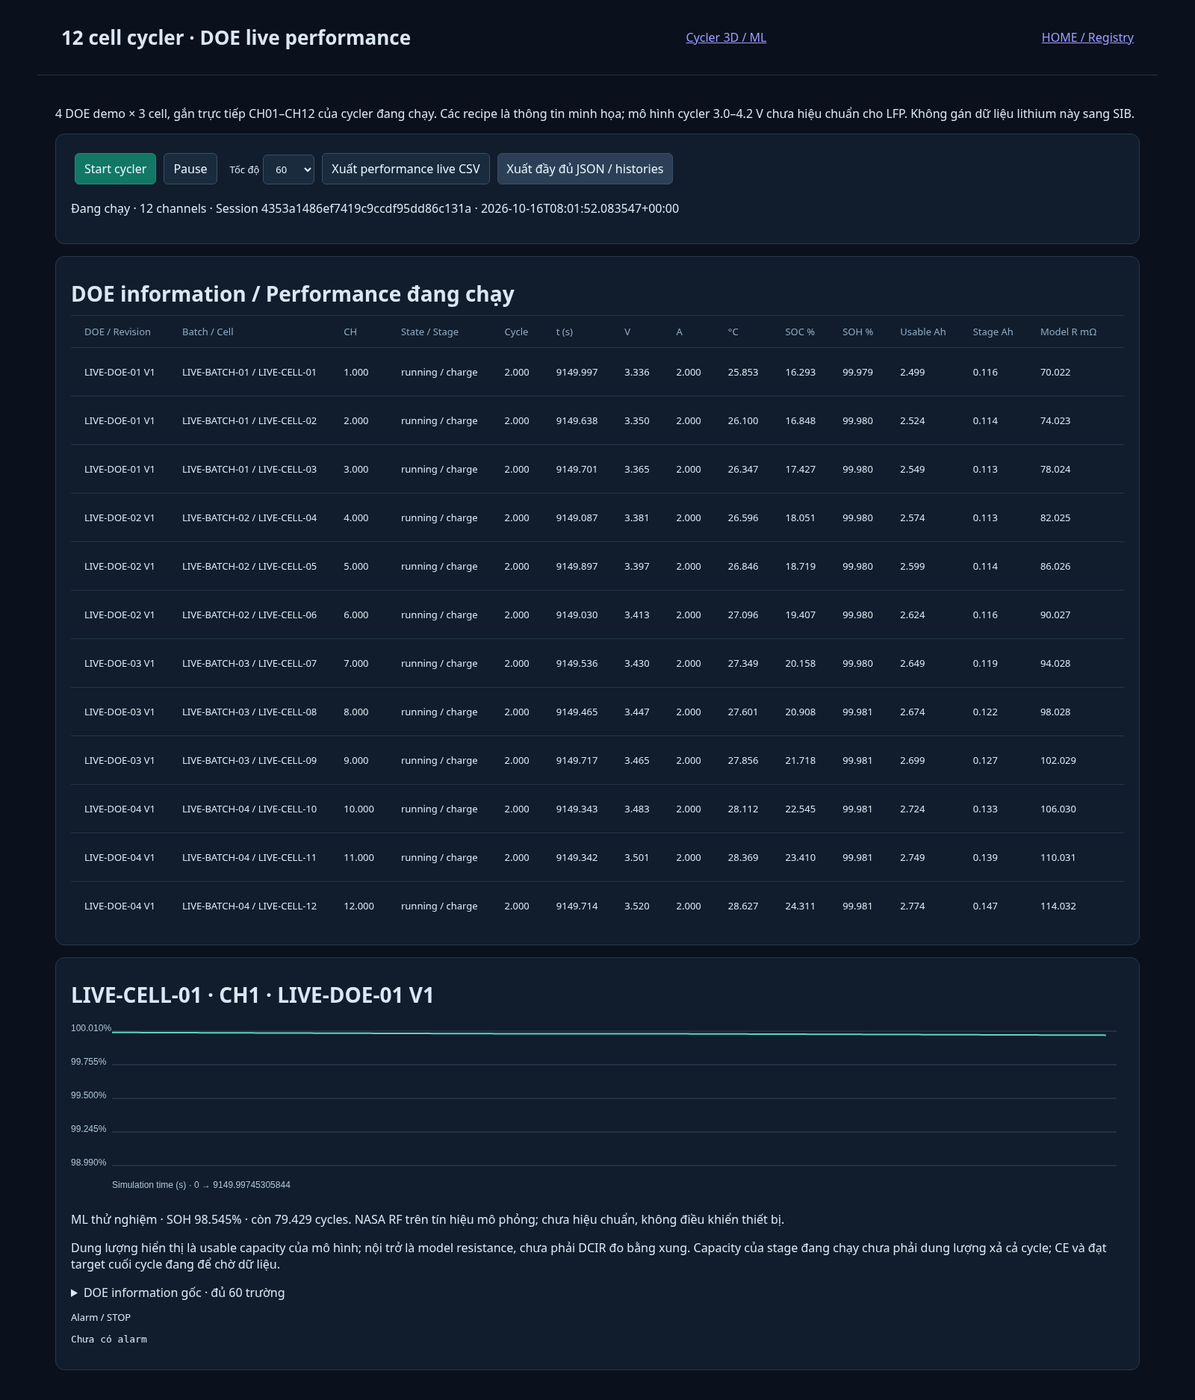
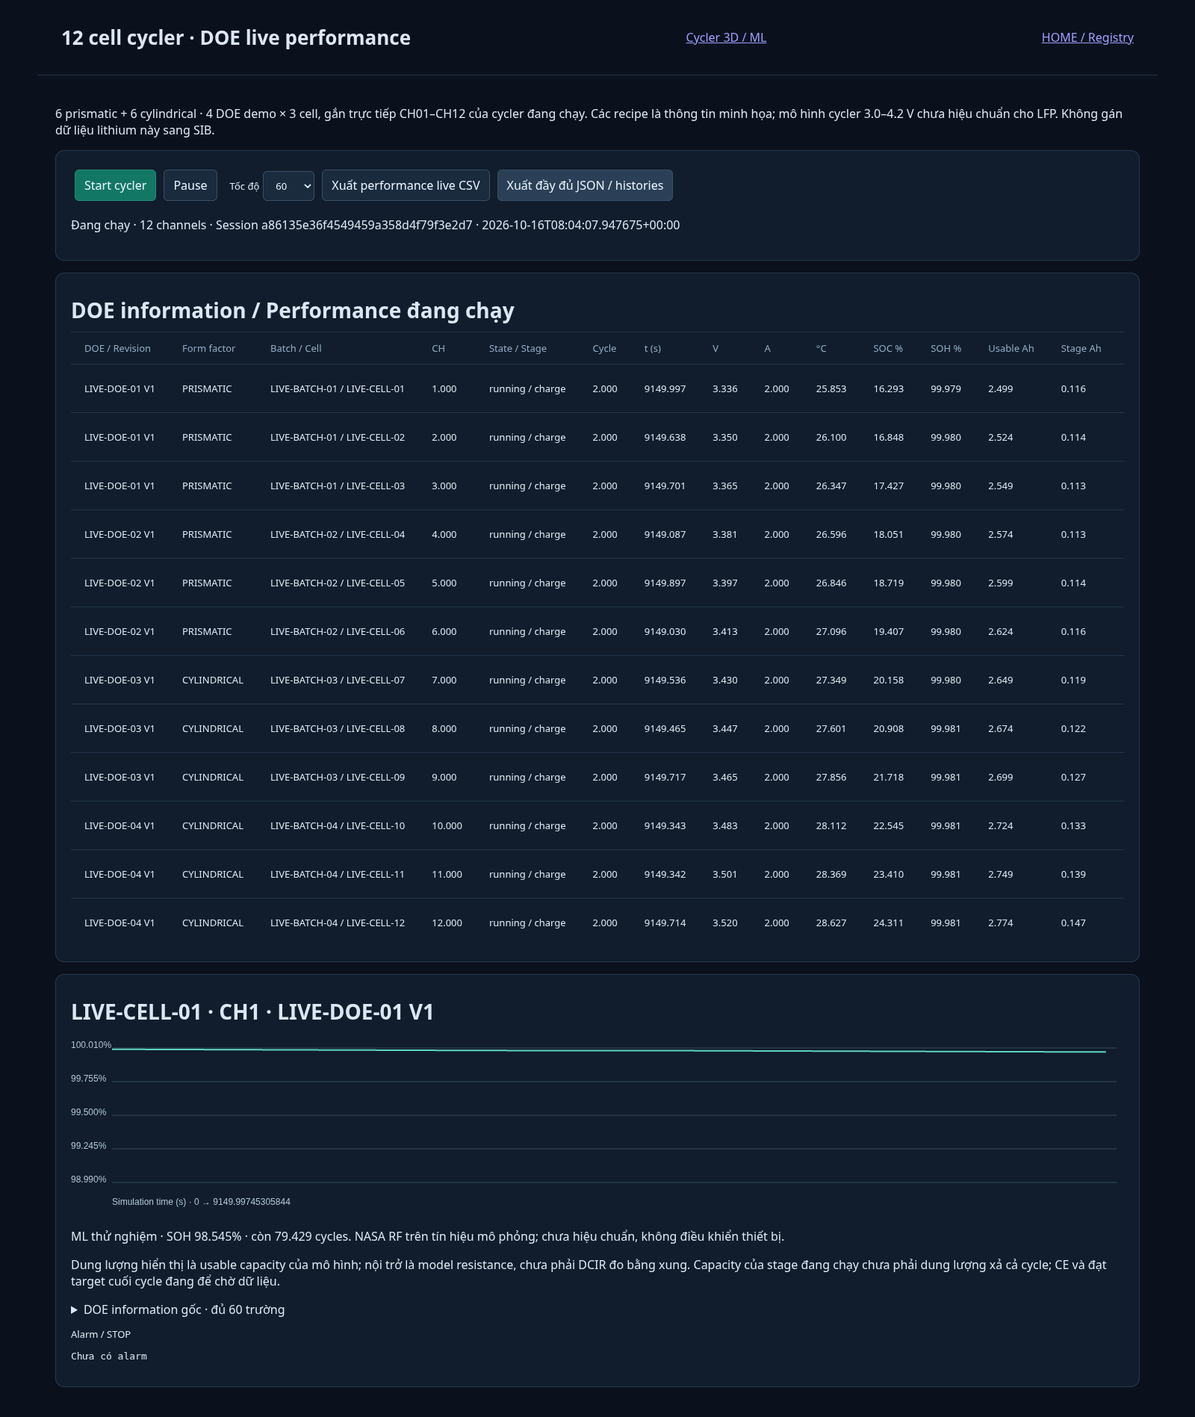
Display six prismatic and six cylindrical cells in the live 3D cycler

diff --git a/web/live-doe.js b/web/live-doe.js
@@ -3,8 +3,8 @@ const fmt=v=>typeof v==='number'?v.toFixed(3):v??'—';
 async function control(data){const r=await fetch('/api/control',{method:'POST',headers:{'Content-Type':'application/json'},body:JSON.stringify(data)});const d=await r.json();if(!r.ok)throw Error(d.error);await refresh();}
 function fail(e){$('error').textContent=e.message;}
 async function refresh(){if(busy)return;busy=true;try{const r=await fetch('/api/live-report');if(!r.ok)throw Error('Live report HTTP '+r.status);snapshot=await r.json();render();$('error').textContent='';}catch(e){fail(e);}finally{busy=false;}}
-function render(){const d=snapshot;$('status').textContent=`${d.running?'Đang chạy':'Đang dừng / paused'} · ${d.tests.length} channels · Session ${d.session_id} · ${d.exported_at}${d.safety_stop?' · SAFETY STOP (Reset tại cycler 3D)':''}`;const table=node('table'),head=node('tr');for(const h of ['DOE / Revision','Batch / Cell','CH','State / Stage','Cycle','t (s)','V','A','°C','SOC %','SOH %','Usable Ah','Stage Ah','Model R mΩ','ML RUL','Xem'])head.append(node('th',h));const thead=node('thead');thead.append(head);table.append(thead);const body=node('tbody');for(const t of d.tests){const c=t.telemetry,tr=node('tr');for(const v of [t.doe_id+' V'+t.revision,t.batch_id+' / '+t.cell_id,t.channel,t.run_state+' / '+c.stage,c.cycle,c.time_s,c.voltage_v,c.current_a,c.temperature_c,100*c.soc,c.soh_percent,c.capacity_ah,c.stage_capacity_ah,c.resistance_mohm,c.live_ml.remaining_cycles])tr.append(node('td',fmt(v)));const td=node('td'),b=node('button','SOH / DOE');b.onclick=()=>{selected=t.channel;draw();};td.append(b);tr.append(td);body.append(tr);}table.append(body);$('table').replaceChildren(table);$('alarms').textContent=d.alarms.length?JSON.stringify(d.alarms,null,2):'Chưa có alarm';draw();}
+function render(){const d=snapshot;$('status').textContent=`${d.running?'Đang chạy':'Đang dừng / paused'} · ${d.tests.length} channels · Session ${d.session_id} · ${d.exported_at}${d.safety_stop?' · SAFETY STOP (Reset tại cycler 3D)':''}`;const table=node('table'),head=node('tr');for(const h of ['DOE / Revision','Form factor','Batch / Cell','CH','State / Stage','Cycle','t (s)','V','A','°C','SOC %','SOH %','Usable Ah','Stage Ah','Model R mΩ','ML RUL','Xem'])head.append(node('th',h));const thead=node('thead');thead.append(head);table.append(thead);const body=node('tbody');for(const t of d.tests){const c=t.telemetry,tr=node('tr');for(const v of [t.doe_id+' V'+t.revision,t.form_factor,t.batch_id+' / '+t.cell_id,t.channel,t.run_state+' / '+c.stage,c.cycle,c.time_s,c.voltage_v,c.current_a,c.temperature_c,100*c.soc,c.soh_percent,c.capacity_ah,c.stage_capacity_ah,c.resistance_mohm,c.live_ml.remaining_cycles])tr.append(node('td',fmt(v)));const td=node('td'),b=node('button','SOH / DOE');b.onclick=()=>{selected=t.channel;draw();};td.append(b);tr.append(td);body.append(tr);}table.append(body);$('table').replaceChildren(table);$('alarms').textContent=d.alarms.length?JSON.stringify(d.alarms,null,2):'Chưa có alarm';draw();}
 function draw(){if(!snapshot)return;const t=snapshot.tests.find(t=>t.channel===selected),c=t.telemetry,d=snapshot.does.find(d=>d.id===t.doe_id);$('selected').textContent=`${t.cell_id} · CH${selected} · ${t.doe_id} V${t.revision}`;$('bom').textContent=JSON.stringify(d,null,2);$('ml').textContent=c.live_ml.remaining_cycles===null?'ML: '+c.live_ml.reason:`ML thử nghiệm · SOH ${fmt(c.live_ml.soh_percent)}% · còn ${fmt(c.live_ml.remaining_cycles)} cycles. NASA RF trên tín hiệu mô phỏng; chưa hiệu chuẩn, không điều khiển thiết bị.`;const canvas=$('chart'),ctx=canvas.getContext('2d'),w=canvas.clientWidth;canvas.width=w*devicePixelRatio;canvas.height=240*devicePixelRatio;ctx.scale(devicePixelRatio,devicePixelRatio);const pts=c.live_soh_history,min=Math.min(99,...pts.map(p=>p.simulated_soh_percent))-.01,max=100.01,end=Math.max(1,c.time_s),x=t=>55+(w-75)*t/end,y=v=>200-(v-min)/(max-min)*180;ctx.font='12px sans-serif';ctx.fillStyle='#aec4d5';ctx.strokeStyle='#34495b';for(let i=0;i<=4;i++){const v=min+(max-min)*i/4;ctx.fillText(v.toFixed(3)+'%',0,y(v));ctx.beginPath();ctx.moveTo(55,y(v));ctx.lineTo(w-10,y(v));ctx.stroke();}ctx.fillText('Simulation time (s) · 0 → '+end,55,230);ctx.strokeStyle='#5dd5bf';ctx.lineWidth=2;ctx.beginPath();pts.forEach((p,i)=>ctx[i?'lineTo':'moveTo'](x(p.time_s),y(p.simulated_soh_percent)));ctx.stroke();if(pts.length===1){ctx.beginPath();ctx.arc(x(pts[0].time_s),y(pts[0].simulated_soh_percent),3,0,7);ctx.fill();}}
 function download(name,s,type){const u=URL.createObjectURL(new Blob([s],{type})),a=node('a');a.href=u;a.download=name;a.click();setTimeout(()=>URL.revokeObjectURL(u),1000);}
-$('csv').onclick=()=>{if(!snapshot)return;const state=snapshot,keys=Object.entries(state.does[0].bom).flatMap(([g,fs])=>Object.keys(fs).map(k=>[g,k]));const rows=state.tests.map(t=>{const c=t.telemetry,d=state.does.find(d=>d.id===t.doe_id);return {exported_at:state.exported_at,source:t.source,session_id:t.session_id,project_id:t.project_id,doe_id:t.doe_id,revision:t.revision,owner:d.owner,objective:d.objective,batch_id:t.batch_id,cell_id:t.cell_id,test_id:t.test_id,equipment:t.equipment,channel:t.channel,protocol:t.protocol,run_state:t.run_state,stage:c.stage,cycle:c.cycle,time_s:c.time_s,voltage_v:c.voltage_v,current_a:c.current_a,temperature_c:c.temperature_c,soc_percent:100*c.soc,soh_percent:c.soh_percent,model_usable_capacity_ah:c.capacity_ah,stage_capacity_ah:c.stage_capacity_ah,model_resistance_mohm:c.resistance_mohm,efc:c.efc,target_state:t.target_state,ce_percent:null,ml_status:c.live_ml.status,ml_soh_percent:c.live_ml.soh_percent,ml_remaining_cycles:c.live_ml.remaining_cycles,ml_feature_cycle:c.live_ml.feature_cycle,ml_updated_time_s:c.live_ml.updated_time_s,ml_experimental:true,valid_for_hardware:false,error:c.error,alarms_json:JSON.stringify(state.alarms.filter(a=>a.cell===t.channel)),...Object.fromEntries(keys.map(([g,k])=>['reference_bom.'+g+'.'+k,d.bom[g][k]]))};});const quote=v=>{let s=String(v??'');if(typeof v==='string'&&/^[=+@\-\t\r]/.test(s))s="'"+s;return '"'+s.replaceAll('"','""')+'"';};const h=Object.keys(rows[0]);download('live-12-channel-performance.csv','\uFEFF'+h.join(',')+'\r\n'+rows.map(r=>h.map(k=>quote(r[k])).join(',')).join('\r\n'),'text/csv;charset=utf-8');};
+$('csv').onclick=()=>{if(!snapshot)return;const state=snapshot,keys=Object.entries(state.does[0].bom).flatMap(([g,fs])=>Object.keys(fs).map(k=>[g,k]));const rows=state.tests.map(t=>{const c=t.telemetry,d=state.does.find(d=>d.id===t.doe_id);return {exported_at:state.exported_at,source:t.source,session_id:t.session_id,project_id:t.project_id,form_factor:t.form_factor,doe_id:t.doe_id,revision:t.revision,owner:d.owner,objective:d.objective,batch_id:t.batch_id,cell_id:t.cell_id,test_id:t.test_id,equipment:t.equipment,channel:t.channel,protocol:t.protocol,run_state:t.run_state,stage:c.stage,cycle:c.cycle,time_s:c.time_s,voltage_v:c.voltage_v,current_a:c.current_a,temperature_c:c.temperature_c,soc_percent:100*c.soc,soh_percent:c.soh_percent,model_usable_capacity_ah:c.capacity_ah,stage_capacity_ah:c.stage_capacity_ah,model_resistance_mohm:c.resistance_mohm,efc:c.efc,target_state:t.target_state,ce_percent:null,ml_status:c.live_ml.status,ml_soh_percent:c.live_ml.soh_percent,ml_remaining_cycles:c.live_ml.remaining_cycles,ml_feature_cycle:c.live_ml.feature_cycle,ml_updated_time_s:c.live_ml.updated_time_s,ml_experimental:true,valid_for_hardware:false,error:c.error,alarms_json:JSON.stringify(state.alarms.filter(a=>a.cell===t.channel)),...Object.fromEntries(keys.map(([g,k])=>['reference_bom.'+g+'.'+k,d.bom[g][k]]))};});const quote=v=>{let s=String(v??'');if(typeof v==='string'&&/^[=+@\-\t\r]/.test(s))s="'"+s;return '"'+s.replaceAll('"','""')+'"';};const h=Object.keys(rows[0]);download('live-12-channel-performance.csv','\uFEFF'+h.join(',')+'\r\n'+rows.map(r=>h.map(k=>quote(r[k])).join(',')).join('\r\n'),'text/csv;charset=utf-8');};
 $('json').onclick=()=>{if(snapshot)download('live-12-channel-report.json',JSON.stringify(snapshot,null,2),'application/json');};$('start').onclick=()=>control({action:'start'}).catch(fail);$('pause').onclick=()=>control({action:'pause'}).catch(fail);$('speed').onchange=()=>control({action:'speed',speed:Number($('speed').value)}).catch(fail);window.addEventListener('resize',draw);await refresh();setInterval(refresh,1000);

diff --git a/web/app.js b/web/app.js
@@ -16,7 +16,7 @@ const stages = {ready:'Sẵn sàng',charge:'Sạc',rest_after_charge:'Nghỉ sau
 const statuses = {ready:'Sẵn sàng',running:'Đang chạy',complete:'Hoàn tất',fault:'Dừng lỗi',stopped:'Dừng bảo vệ'};
 let selected=0, state=null, history=Array.from({length:12},()=>[]), lastTime=Array(12).fill(-1);
 const meshes=[], outlines=[];
-for(let i=0;i<12;i++) $('cell-select').add(new Option(`CH ${String(i+1).padStart(2,'0')}`,i));
+for(let i=0;i<12;i++) $('cell-select').add(new Option(`CH ${String(i+1).padStart(2,'0')} · ${i<6?'Prismatic':'Cylindrical'}`,i));
 for(let i=0;i<12;i++) $('fault-cell').add(new Option(`CH ${String(i+1).padStart(2,'0')}`,i+1));
 function selectCell(i){selected=i;$('cell-select').value=i;if(state)updateUI(state);window.dispatchEvent(new CustomEvent('cycler-cell',{detail:i}));}
 $('cell-select').addEventListener('change',e=>selectCell(Number(e.target.value)));
@@ -41,14 +41,18 @@ try {
  for(const y of [0,1.85,3.7,5.6])box(6.7,.13,2.5,0,y,0,'#334b61');
  box(6.6,5.6,.12,0,2.8,-1.15,'#1a2b3d');
  for(let i=0;i<12;i++){
-   const x=(i%4-1.5)*1.55,y=4.55-Math.floor(i/4)*1.85;
-   const cell=new THREE.Mesh(new THREE.CylinderGeometry(.42,.42,1.3,40),new THREE.MeshStandardMaterial({color:thermalColor(25),roughness:.4,metalness:.22}));
-   cell.position.set(x,y,.1);cell.userData.id=i;scene.add(cell);meshes.push(cell);
-   box(.32,.1,.32,x,y+.7,.1,'#b5c5d3');
+   const prismatic=i<6,col=(prismatic?0:2)+i%2,row=Math.floor((i%6)/2);
+   const x=(col-1.5)*1.55,y=4.55-row*1.85;
+   const cell=new THREE.Mesh((prismatic?new THREE.BoxGeometry(.95,1.3,.55):new THREE.CylinderGeometry(.42,.42,1.3,40)),new THREE.MeshStandardMaterial({color:thermalColor(25),roughness:.4,metalness:.22}));
+   cell.position.set(x,y,.1);cell.userData.id=i;cell.userData.formFactor=prismatic?'PRISMATIC':'CYLINDRICAL';scene.add(cell);meshes.push(cell);
+   if(prismatic){
+     box(.2,.12,.22,x-.28,y+.71,.1,'#ed786a');
+     box(.2,.12,.22,x+.28,y+.71,.1,'#b5c5d3');
+   }else box(.32,.1,.32,x,y+.7,.1,'#b5c5d3');
    const edges=new THREE.LineSegments(new THREE.EdgesGeometry(new THREE.BoxGeometry(1,1.65,1)),new THREE.LineBasicMaterial({color:'#e7fffa'}));
    edges.position.copy(cell.position);scene.add(edges);outlines.push(edges);
    const labelCanvas=document.createElement('canvas');labelCanvas.width=256;labelCanvas.height=64;
-   const ctx=labelCanvas.getContext('2d');ctx.fillStyle='#c4dae9';ctx.font='bold 28px sans-serif';ctx.textAlign='center';ctx.fillText(`CH ${String(i+1).padStart(2,'0')}`,128,42);
+   const ctx=labelCanvas.getContext('2d');ctx.fillStyle='#c4dae9';ctx.font='bold 24px sans-serif';ctx.textAlign='center';ctx.fillText(`CH ${String(i+1).padStart(2,'0')} · ${prismatic?'PRISM':'CYL'}`,128,42);
    const sprite=new THREE.Sprite(new THREE.SpriteMaterial({map:new THREE.CanvasTexture(labelCanvas)}));sprite.position.set(x,y-.68,1.35);sprite.scale.set(1.15,.29,1);scene.add(sprite);
  }
  const grid=new THREE.GridHelper(20,20,0x345168,0x192d40);grid.position.y=-.1;scene.add(grid);
@@ -87,7 +91,7 @@ function updateUI(s){
  $('fault-pending').textContent=s.pending_fault?`Đã lên lịch lỗi ${s.pending_fault.kind} cho CH ${s.pending_fault.cell}. Bắt đầu để áp dụng.`:'';
  $('run-status').textContent=s.safety_stop?'STOP · Dừng bảo vệ':s.running?'Đang mô phỏng':s.cells.every(c=>['complete','fault'].includes(c.status))?'Đã kết thúc':'Tạm dừng / Sẵn sàng';
  $('run-status').classList.toggle('error',s.safety_stop);
- $('speed').value=String(s.speed);$('cell-title').textContent=`CH ${String(cell.id).padStart(2,'0')}`;
+ $('speed').value=String(s.speed);$('cell-title').textContent=`CH ${String(cell.id).padStart(2,'0')} · ${cell.form_factor}`;
  $('stage').textContent=`${stages[cell.stage]||cell.stage} · ${cell.mode} · Chu kỳ ${cell.cycle}/3`;
  $('temperature').textContent=`${cell.temperature_c.toFixed(2)} °C`;$('temperature').style.color='#'+thermalColor(cell.temperature_c).getHexString();
  $('voltage').textContent=`${cell.voltage_v.toFixed(3)} V`;$('current').textContent=`${cell.current_a.toFixed(3)} A`;
@@ -106,7 +110,7 @@ function updateUI(s){
    if(c.time_s!==lastTime[i]){history[i].push({...c});if(history[i].length>240)history[i].shift();lastTime[i]=c.time_s;}
    if(meshes[i])meshes[i].material.color.copy(thermalColor(c.temperature_c));
    const tr=document.createElement('tr');tr.classList.toggle('selected',i===selected);tr.tabIndex=0;
-   const texts=[`CH ${String(c.id).padStart(2,'0')}`,statuses[c.status],`${c.cycle}/3`,c.mode,`${c.voltage_v.toFixed(3)} V`,`${c.current_a.toFixed(3)} A`,`${(c.soc*100).toFixed(1)} %`,`${c.temperature_c.toFixed(2)} °C`,`${c.soh_percent.toFixed(3)} %`,c.efc.toFixed(3),c.live_ml.remaining_cycles===null?'Chờ xả':`≈ ${Math.round(c.live_ml.remaining_cycles)}`,c.live_ml.feature_cycle??'—'];
+   const texts=[`CH ${String(c.id).padStart(2,'0')} · ${c.form_factor}`,statuses[c.status],`${c.cycle}/3`,c.mode,`${c.voltage_v.toFixed(3)} V`,`${c.current_a.toFixed(3)} A`,`${(c.soc*100).toFixed(1)} %`,`${c.temperature_c.toFixed(2)} °C`,`${c.soh_percent.toFixed(3)} %`,c.efc.toFixed(3),c.live_ml.remaining_cycles===null?'Chờ xả':`≈ ${Math.round(c.live_ml.remaining_cycles)}`,c.live_ml.feature_cycle??'—'];
    texts.forEach((text,j)=>{const td=document.createElement('td');td.textContent=text;if(j===7){const dot=document.createElement('span');dot.className='dot';dot.style.background='#'+thermalColor(c.temperature_c).getHexString();td.prepend(dot);}tr.append(td);});
    tr.addEventListener('click',()=>selectCell(i));tr.addEventListener('keydown',e=>{if(e.key==='Enter'||e.key===' '){e.preventDefault();selectCell(i);}});$('channels').append(tr);
  }

diff --git a/web/live-doe.html b/web/live-doe.html
@@ -1,5 +1,5 @@
 <!doctype html><html lang="vi"><head><meta charset="utf-8"><meta name="viewport" content="width=device-width,initial-scale=1"><title>12 live channels · DOE performance</title><link rel="stylesheet" href="style.css"><link rel="stylesheet" href="projects.css"><style>main{padding:24px}.panel{padding:20px;margin:16px 0}.table-scroll{overflow:auto}canvas{width:100%;height:240px}pre{white-space:pre-wrap}button,select{margin:5px}#error{color:#ff9393}</style></head><body><header><h1>12 cell cycler · DOE live performance</h1><a href="index.html">Cycler 3D / ML</a><a href="workflow.html">HOME / Registry</a></header><main>
-<p>4 DOE demo × 3 cell, gắn trực tiếp CH01–CH12 của cycler đang chạy. Các recipe là thông tin minh họa; mô hình cycler 3.0–4.2 V chưa hiệu chuẩn cho LFP. Không gán dữ liệu lithium này sang SIB.</p>
+<p>6 prismatic + 6 cylindrical · 4 DOE demo × 3 cell, gắn trực tiếp CH01–CH12 của cycler đang chạy. Các recipe là thông tin minh họa; mô hình cycler 3.0–4.2 V chưa hiệu chuẩn cho LFP. Không gán dữ liệu lithium này sang SIB.</p>
 <section class="panel"><button id="start">Start cycler</button><button id="pause">Pause</button><label>Tốc độ<select id="speed"><option>1</option><option>10</option><option selected>60</option><option>300</option></select></label><button id="csv">Xuất performance live CSV</button><button id="json">Xuất đầy đủ JSON / histories</button><p id="status"></p><p id="error" role="alert"></p></section>
 <section class="panel"><h2>DOE information / Performance đang chạy</h2><div id="table" class="table-scroll"></div></section>
 <section class="panel"><h2 id="selected">SOH theo thời gian</h2><canvas id="chart"></canvas><p id="ml"></p><p>Dung lượng hiển thị là usable capacity của mô hình; nội trở là model resistance, chưa phải DCIR đo bằng xung. Capacity của stage đang chạy chưa phải dung lượng xả cả cycle; CE và đạt target cuối cycle đang để chờ dữ liệu.</p><details><summary>DOE information gốc · đủ 60 trường</summary><pre id="bom"></pre></details><h3>Alarm / STOP</h3><pre id="alarms"></pre></section></main><script type="module" src="live-doe.js"></script></body></html>

diff --git a/web/index.html b/web/index.html
@@ -16,7 +16,7 @@
   </section>
   <section class="panel safety-panel"><h3>Kiểm thử cell bất thường</h3><div class="scenario"><label>Cell<select id="fault-cell" aria-label="Cell kiểm thử lỗi"></select></label><label>Tình huống<select id="fault-kind"><option value="overheat">Quá nhiệt 50 °C</option><option value="overvoltage">Quá áp 4,5 V</option><option value="overcurrent">Quá dòng 8 A</option><option value="capacity_drop">Dung lượng giảm đột ngột</option></select></label><button id="inject-fault">Chèn lỗi mô phỏng</button></div><p class="muted">Lỗi được áp dụng tại bước mô phỏng kế tiếp khi đang chạy. Dừng toàn bộ tủ, dòng về 0; cần Reset để chạy lại. Chỉ áp dụng trong mô phỏng.</p><p id="fault-pending" role="status"></p><div id="safety-alarm" role="alert" hidden></div></section>
   <section class="layout">
-    <div class="panel scene-panel"><div class="section-title">TỦ CYCLER 3D <span>Kéo để xoay · Cuộn để zoom · Chọn cell</span></div><div id="scene"></div>
+    <div class="panel scene-panel"><div class="section-title">TỦ CYCLER 3D · 6 PRISMATIC + 6 CYLINDRICAL <span>Kéo để xoay · Cuộn để zoom · Chọn cell</span></div><div id="scene"></div><p class="muted">Bên trái: CH01–06 Prismatic · Bên phải: CH07–12 Cylindrical. Hình dạng minh họa; chưa có mô hình nhiệt riêng theo form factor.</p>
       <div class="legend"><span>Nhiệt độ cell · °C</span><div class="colorbar"></div><div class="ticks"><span>20</span><span>25</span><span>30</span><span>35</span><span>40</span><span>45</span></div></div>
     </div>
     <aside class="panel details"><div class="section-title">CELL ĐANG CHỌN <select id="cell-select" aria-label="Chọn cell"></select></div>

diff --git a/live_report.py b/live_report.py
@@ -7,15 +7,16 @@ def report(rack):
     # Caller holds rack.lock: telemetry, ML and histories form one consistent snapshot.
     does=[]
     for group in range(4):
-        bom=template('cylindrical-lfp01')
+        pid='prismatic-lfp01' if group<2 else 'cylindrical-lfp01'
+        bom=template(pid)
         bom['cell']['capacity_033_typical']=2.5+.025*(group*3+1)
         bom['cell']['capacity_033_min']=bom['cell']['capacity_033_typical']*.95
-        does.append(dict(id='LIVE-DOE-%02d'%(group+1),revision=1,owner='Demo R&D',
+        does.append(dict(project_id=pid,form_factor='PRISMATIC' if group<2 else 'CYLINDRICAL',id='LIVE-DOE-%02d'%(group+1),revision=1,owner='Demo R&D',
             objective='Monitor three live simulator channels; no causal design effect claimed',bom=bom))
     tests=[]
     for index,c in enumerate(rack.cells):
         d=does[index//3]
-        tests.append(dict(project_id='cylindrical-lfp01',source='live_cycler_simulator',session_id=rack.session_id,
+        tests.append(dict(project_id=c['project_id'],form_factor=c['form_factor'],source='live_cycler_simulator',session_id=rack.session_id,
             doe_id=d['id'],revision=d['revision'],batch_id='LIVE-BATCH-%02d'%(index//3+1),
             cell_id='LIVE-CELL-%02d'%c['id'],test_id=rack.session_id+'-CH%02d'%c['id'],
             equipment='SIM-RACK-01',channel=c['id'],protocol='CC/CV 2A 4.2V → rest → discharge 2A 3.0V; 3 cycles',

diff --git a/server.py b/server.py
@@ -46,7 +46,8 @@ class Rack:
                               temperature_c=25 + 0.2 * i, ambient_c=25 + 0.2 * i)
             self.streams.append(simulate(battery, cycles=3, current_a=2, dt_s=1))
             self.batteries.append(battery)
-            self.cells.append(dict(id=i + 1, time_s=0, cycle=1, stage='ready', mode='READY',
+            self.cells.append(dict(id=i + 1, form_factor='PRISMATIC' if i<6 else 'CYLINDRICAL',
+                                   project_id='prismatic-lfp01' if i<6 else 'cylindrical-lfp01', time_s=0, cycle=1, stage='ready', mode='READY',
                                    voltage_v=battery.ocv, current_a=0, soc=battery.soc,
                                    temperature_c=battery.temperature_c, stage_capacity_ah=0,
                                    status='ready', error='', live_ml=self.waiting_prediction(),

diff --git a/test_live_report.py b/test_live_report.py
@@ -7,6 +7,8 @@ class LiveReportTests(unittest.TestCase):
   self.assertEqual(len(d['tests']),12);self.assertEqual(len(d['does']),4)
   self.assertEqual([t['channel'] for t in d['tests']],list(range(1,13)))
   self.assertTrue(all(sum(t['doe_id']==doe['id'] for t in d['tests'])==3 for doe in d['does']))
+  self.assertEqual([t['form_factor'] for t in d['tests']],['PRISMATIC']*6+['CYLINDRICAL']*6)
+  self.assertEqual([t['project_id'] for t in d['tests']],['prismatic-lfp01']*6+['cylindrical-lfp01']*6)
   old=d['session_id'];r.reset();self.assertNotEqual(report(r)['session_id'],old)
  def test_live_progress_and_stop_match_rack(self):
   r=Rack();r.running=True;r.tick(.5);d=report(r)

diff --git a/README.md b/README.md
@@ -1,3 +1,15 @@
+## Mixed prismatic / cylindrical 3D rack
+
+The original `/index.html` cycler displays six prismatic cells on the left
+(CH01–06) and six cylindrical cells on the right (CH07–12). Prismatic cells
+have rectangular bodies and two terminal tabs; cylindrical cells retain round
+bodies and a top terminal. Both use the same realtime temperature color bar.
+Mesh selection, channel selector, telemetry table and SOH/ML remain available.
+`/api/state` and live DOE exports now carry `form_factor` and the matching demo
+project ID. The four DOE sheets map three channels each to the appropriate form
+factor. Shape is illustrative only: no form-factor-dependent thermal or
+electrochemical model has been calibrated. Existing model behavior is preserved.
+
 ## Live 12-channel DOE demo and export
 
 Open `/live-doe.html` or click **12 cell live · DOE / Export** from Home or
@@ -9,7 +21,7 @@ ML refresh every second, without changing selection or DOE information.
 `GET /api/live-report` captures a locked snapshot with session ID, original
 60-field BOM for each DOE, batch/cell/test/channel identity, actual simulator
 telemetry, SOH/ML histories and alarms. Reset changes the session and test IDs.
-The metadata is a demonstration mapping to CYLINDRICAL LFP01 only: the generic
+The metadata maps CH01–06 to PRISMATIC LFP01 and CH07–12 to CYLINDRICAL LFP01: the generic
 3.0–4.2V simulator is not calibrated LFP chemistry and must not stand in for SIB.
 Recipes describe demo design inputs; they do not drive or explain the rack model.
 This mapping is distinct from the persistent manual lifecycle registry.

diff --git a/results/LIVE-DOE-REPORT.md b/results/LIVE-DOE-REPORT.md
@@ -1,6 +1,7 @@
 # Twelve-channel live DOE performance export
 
-Four demo DOE sheets × three cells map to the existing live simulator's channels
+Six prismatic channels (01–06) and six cylindrical channels (07–12) are shown
+in the mixed 3D rack. Four demo DOE sheets × three cells map to the existing live simulator's channels
 1–12. The page at /live-doe.html reads the same Rack as the 3D cycler and polls
 every second. Start/Pause/Speed operate that shared state. Every export identifies
 the session, time, DOE revision, batch, cell, test and equipment/channel.
